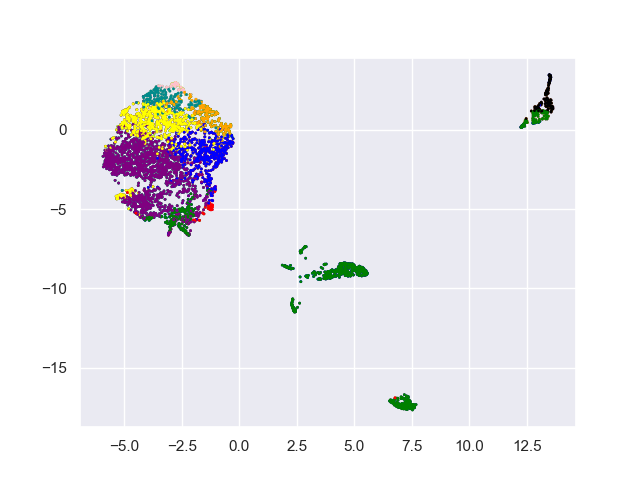
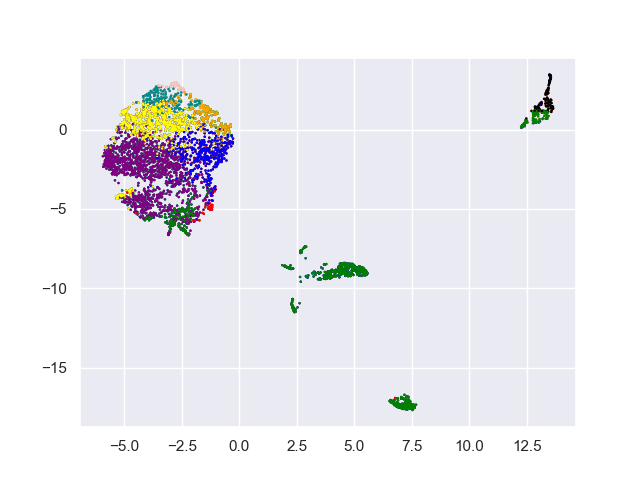
add PCA projection

diff --git a/data_process.py b/data_process.py
@@ -1,4 +1,4 @@
-import os
+import os, time
 import numpy as np
 import pandas as pd
 import matplotlib.pyplot as plt
@@ -36,6 +36,8 @@ class My_KMeans:
 
         iter_n = 0
         tol_n = 1e5
+
+        self.tols = []
         while iter_n < self.max_iter and tol_n > self.tol: # threshold for stopping criteria
             # initialize labels
             self.labels = [0] * nrow
@@ -59,10 +61,17 @@ class My_KMeans:
                 self.centroids.loc[label] = avg_centroid
 
             tol_n = sum(self.distance(tmp_centroids, self.centroids)) # calculate differencen between two centroids
-            print("iter:", iter_n, "diff:", tol_n)
+            # for plotting
+            self.tols.append(tol_n)
+            # print("iter:", iter_n, "diff:", tol_n)
 
             iter_n += 1
 
+def gene_selection(data):
+    count_nonzeros = (data!=0).sum(axis=1)
+    genes = count_nonzeros[count_nonzeros > 1200].index.tolist()
+    filtere_data = data.loc[genes, ]
+    return filtere_data
 
 if __name__ == "__main__":
     # load in the data
@@ -90,30 +99,65 @@ if __name__ == "__main__":
     embedding = reducer.fit_transform(data.T)
 
     # original cell-type annotation
-    plt.scatter(embedding[:, 0], embedding[:, 1], c=[celltype_color[l] for l in celltype_list], s=1)
-    plt.savefig("golden_standard.png", )
+    # plt.scatter(embedding[:, 0], embedding[:, 1], c=[celltype_color[l] for l in celltype_list], s=0.5)
+    # plt.savefig("golden_standard.png", )
 
-    sub_celltypes = pd.read_csv("FC_celltypes.csv", header=0, index_col=0) # sub-cell type file
+    # sub_celltypes = pd.read_csv("FC_celltypes.csv", header=0, index_col=0) # sub-cell type file
 
     from sklearn.cluster import KMeans
-    # # try sklearn's Kmeans on pre-defined 9 clusters
+    # try sklearn's Kmeans on pre-defined 9 clusters
+
+    # start_time = time.time()
     # kmeans = KMeans(n_clusters=9, random_state=2020).fit(data.T)
-    # plt.scatter(embedding[:, 0], embedding[:, 1], c=[list(celltype_color.values())[kl] for kl in kmeans.labels_], s=1)
+    # print("sklearn KMeans: ", time.time()-start_time)
+
+    # plt.scatter(embedding[:, 0], embedding[:, 1], c=[list(celltype_color.values())[kl] for kl in kmeans.labels_], s=0.5)
     # plt.savefig("scikitlearn_kmeans_ori_data.png")
 
     # try my KMeans
+    # start_time = time.time()
     # my_kmeans = My_KMeans(K=9, random_state=2020)
     # my_kmeans.fit(data.T)
-    # plt.scatter(embedding[:, 0], embedding[:, 1], c=[list(celltype_color.values())[kl] for kl in my_kmeans.labels], s=1)
+    # print("My KMeans: ", time.time()-start_time)
+
+    # plt.scatter(embedding[:, 0], embedding[:, 1], c=[list(celltype_color.values())[kl] for kl in my_kmeans.labels], s=0.5)
     # plt.savefig("my_kmeans_ori_data.png")
 
-    my_kmeans = My_KMeans(K=9, random_state=2020, method="Manhattan")
-    my_kmeans.fit(data.T)
-    plt.scatter(embedding[:, 0], embedding[:, 1], c=[list(celltype_color.values())[kl] for kl in my_kmeans.labels], s=1)
-    plt.savefig("my_kmeans_ori_data_manhattan.png")
-
+    # start_time = time.time()
+    # my_kmeans = My_KMeans(K=9, random_state=2020, method="Manhattan")
+    # my_kmeans.fit(data.T)
+    # print("My KMeans mahattan: ", time.time()-start_time)
+    # plt.scatter(embedding[:, 0], embedding[:, 1], c=[list(celltype_color.values())[kl] for kl in my_kmeans.labels], s=0.5)
+    # plt.savefig("my_kmeans_ori_data_manhattan.png")
 
     # my_kmeans_embed = My_KMeans(K=9, random_state=2020)
     # my_kmeans_embed.fit(embedding)
-    # plt.scatter(embedding[:, 0], embedding[:, 1], c=[list(celltype_color.values())[kl] for kl in my_kmeans_embed.labels], s=1)
+    # plt.scatter(embedding[:, 0], embedding[:, 1], c=[list(celltype_color.values())[kl] for kl in my_kmeans_embed.labels], s=0.5)
     # plt.savefig("my_kmeans_embedding.png")
+
+    # gene selection
+    filtered_data = gene_selection(data)
+    # try my KMeans
+    start_time = time.time()
+    my_kmeans = My_KMeans(K=9, random_state=2020)
+    my_kmeans.fit(filtered_data.T)
+    print("My KMeans: ", time.time()-start_time)
+
+    plt.scatter(embedding[:, 0], embedding[:, 1], c=[list(celltype_color.values())[kl] for kl in my_kmeans.labels], s=0.5)
+    plt.savefig("my_kmeans_30per_data.png")
+
+    start_time = time.time()
+    my_kmeans = My_KMeans(K=9, random_state=2020, method="Manhattan")
+    my_kmeans.fit(filtered_data.T)
+    print("My KMeans mahattan: ", time.time()-start_time)
+    plt.scatter(embedding[:, 0], embedding[:, 1], c=[list(celltype_color.values())[kl] for kl in my_kmeans.labels], s=0.5)
+    plt.savefig("my_kmeans_30per_manhattan.png")
+
+    # PCA projection
+    from sklearn.decomposition import PCA
+    pca = PCA(n_components=15)
+    pca.fit(data)
+    my_kmeans = My_KMeans(K=9, random_state=2020, method="Euclidean")
+    my_kmeans.fit(pca.components_.T)
+    plt.scatter(embedding[:, 0], embedding[:, 1], c=[list(celltype_color.values())[kl] for kl in my_kmeans.labels], s=0.5)
+    plt.savefig("my_kmeans_pca.png")
